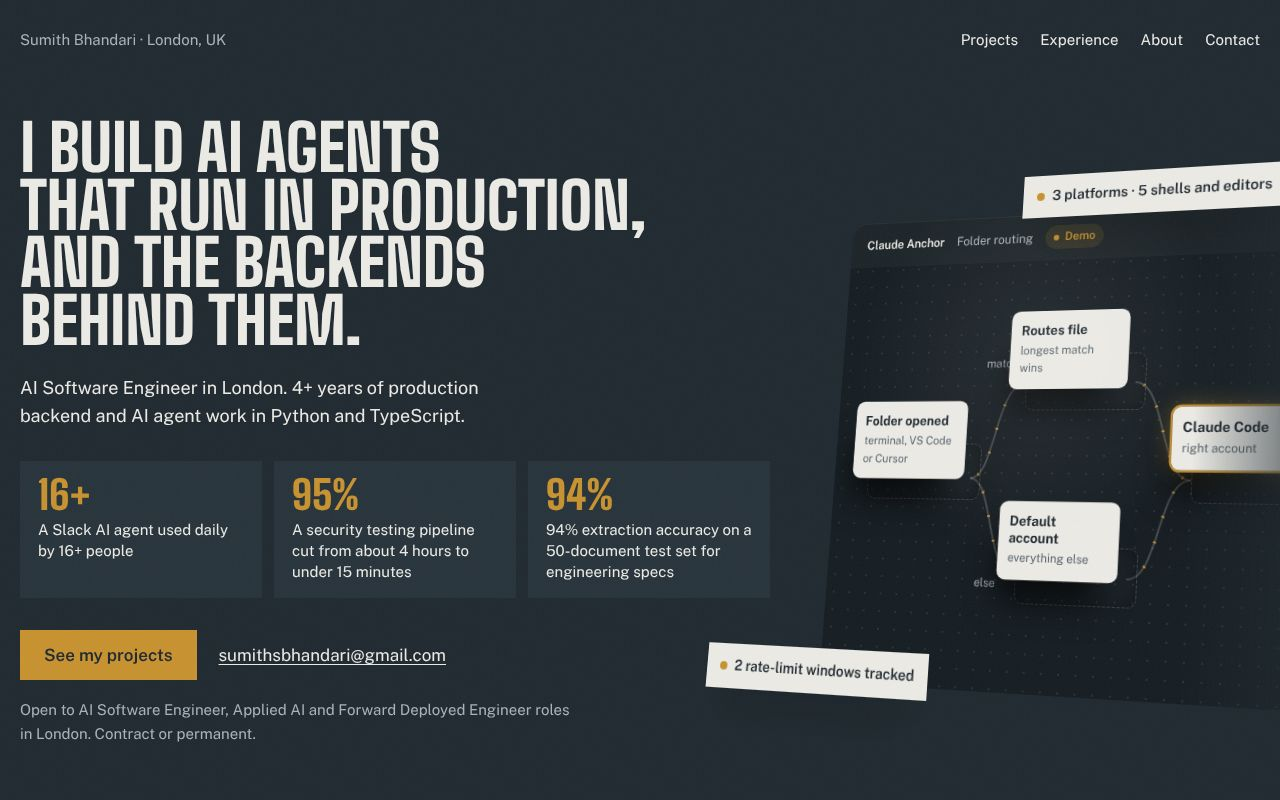
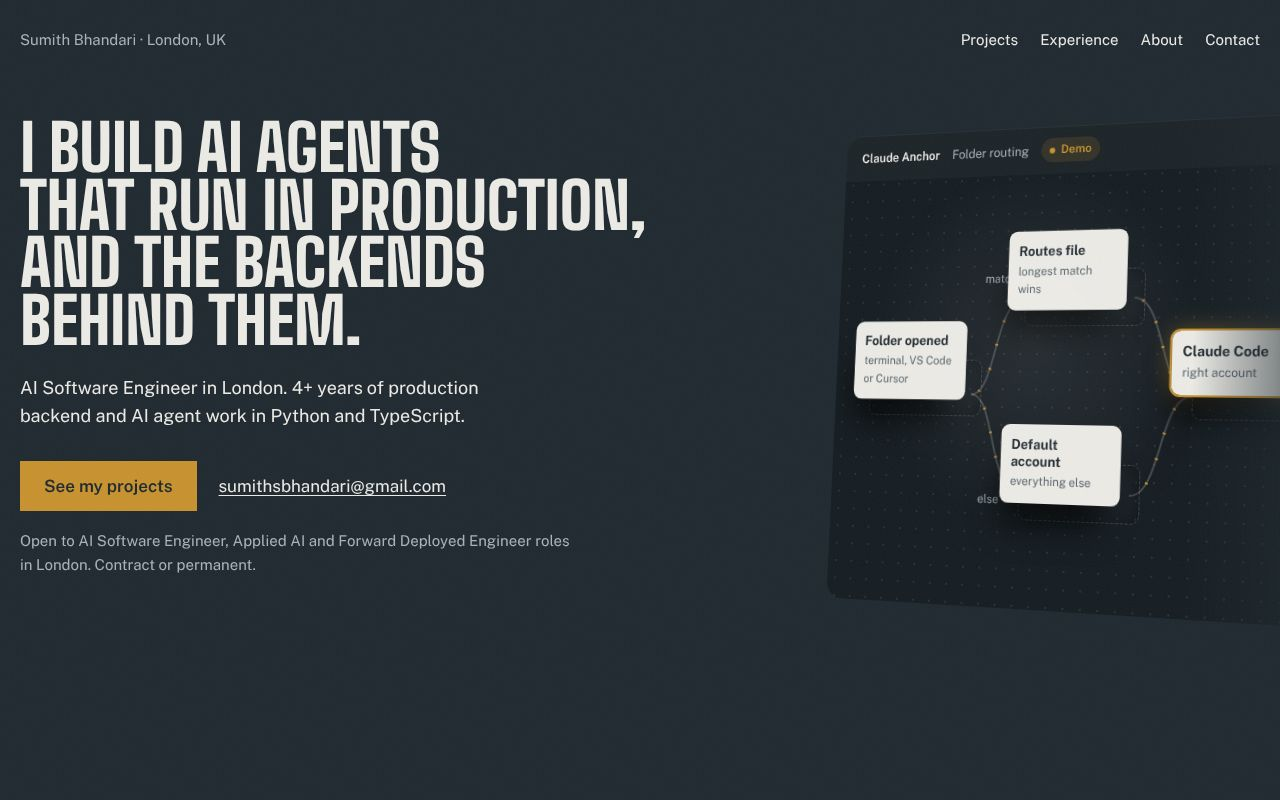
Drop highlighted project numbers and Goodspeed from the page leads
Removes the hero proof tiles, the flow window chips, the card outcome
lines and bolded numbers in Experience; numbers stay as plain text in
case studies and job bullets. Goodspeed no longer appears in the hero,
the intro reveal line or the About closer; its Experience entry stays.

diff --git a/src/styles/global.css b/src/styles/global.css
@@ -103,11 +103,6 @@ html.intro #plot { display: grid; }
 .hero h1 .ln { display: block; overflow: hidden; padding-bottom: 0.06em; margin-bottom: -0.06em; }
 .hero h1 .ln > span { display: block; }
 .tagline { margin-top: 24px; font-size: clamp(18px, 1.4vw, 21px); max-width: 44ch; color: var(--on-dark); }
-.proof { list-style: none; padding: 0; margin-top: 32px; display: grid; grid-template-columns: repeat(auto-fit, minmax(min(200px, 100%), 1fr)); gap: 12px; max-width: 760px; }
-.proof a { display: flex; flex-direction: column; gap: 6px; height: 100%; padding: 16px 18px; background: var(--band-2); text-decoration: none; transition: background-color 180ms ease; }
-@media (hover: hover) and (pointer: fine) { .proof a:hover { background: var(--band-3); } }
-.proof b { font-family: var(--display); font-weight: 800; font-size: 40px; line-height: 0.9; color: var(--accent); }
-.proof span { font-size: 15px; line-height: 1.4; }
 .actions { margin-top: 32px; display: flex; flex-wrap: wrap; align-items: center; gap: 12px 22px; }
 .actions .mail { padding-block: 10px; }
 .availability { margin-top: 18px; font-size: 15px; color: var(--on-dark-soft); max-width: 60ch; }
@@ -166,7 +161,6 @@ html.intro #plot { display: grid; }
 .media-note a { color: var(--ink); }
 .sheet h3 { font-size: 30px; font-weight: 700; letter-spacing: -0.01em; line-height: 1.1; }
 .sheet .summary { font-size: 18px; }
-.outcome { font-weight: 700; font-size: 16px; }
 .tags { list-style: none; padding: 0; display: flex; flex-wrap: wrap; gap: 6px; }
 .tags li { font-size: 13px; padding: 4px 10px; background: var(--paper-2); color: var(--ink); }
 .links { display: flex; flex-wrap: wrap; gap: 4px 20px; }
@@ -271,8 +265,7 @@ html:not(.js) .step { opacity: 1; min-height: auto; padding-block: 24px; }
   .sec { padding-block: 88px; }
   .hero { padding-block: 16px 72px; }
   .site-header .eyebrow { width: 100%; }
-  .proof b { font-size: 32px; }
-  .panel.logo { aspect-ratio: auto; }
+    .panel.logo { aspect-ratio: auto; }
   .plan { height: 180px; }
 }
 @media (prefers-reduced-motion: reduce) {
@@ -310,8 +303,6 @@ body::after { content: ""; position: fixed; inset: 0; z-index: 90; pointer-event
 .fnode b { display: block; font-size: 14px; line-height: 1.2; }
 .fnode span { display: block; margin-top: 3px; font-size: 12px; color: var(--soft); }
 .fnode.active { outline-color: var(--accent); box-shadow: -10px 32px 34px -12px rgba(0,0,0,.8), 0 0 24px rgba(200,146,47,.45); }
-.chip { position: absolute; display: inline-flex; align-items: center; gap: 8px; padding: 10px 14px; background: var(--paper); color: var(--ink); font-size: 14px; font-weight: 600; box-shadow: 0 24px 40px -18px rgba(0,0,0,.8); white-space: nowrap; }
-.chip i { width: 8px; height: 8px; border-radius: 50%; background: var(--accent); }
 .glare { position: absolute; inset: 0; border-radius: 16px; pointer-events: none; background: radial-gradient(circle at var(--gx, 30%) var(--gy, 20%), rgba(255,255,255,.08), transparent 45%); }
 
 /* Projects progress bar (sideways mode) */

diff --git a/src/scripts/site.ts b/src/scripts/site.ts
@@ -165,13 +165,6 @@ if (reduce) {
   intro.finished.then(endIntro);
   plot.addEventListener('click', () => { intro.complete(); endIntro(); });
 
-  // Count the proof numbers up once.
-  $$('.proof b').forEach((b, i) => {
-    const raw = b.textContent || '';
-    const target = parseInt(raw, 10);
-    const suffix = raw.replace(/^\d+/, '');
-    animate(0, target, { duration: 1.6, delay: 1.6 + i * 0.1, ease: [0.33, 1, 0.68, 1], onUpdate: (v) => { b.textContent = Math.round(v) + suffix; } });
-  });
 
   // 2. Hero flow window follows the cursor; idle drift after 90 frames.
   const rig = $('#rig');
